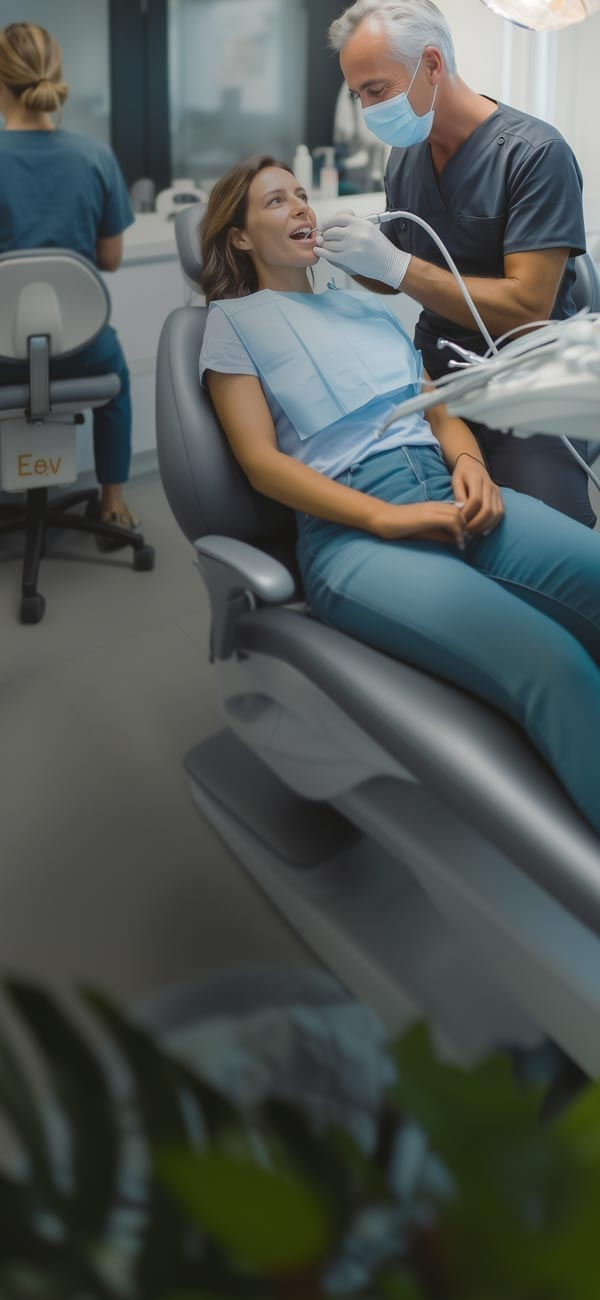
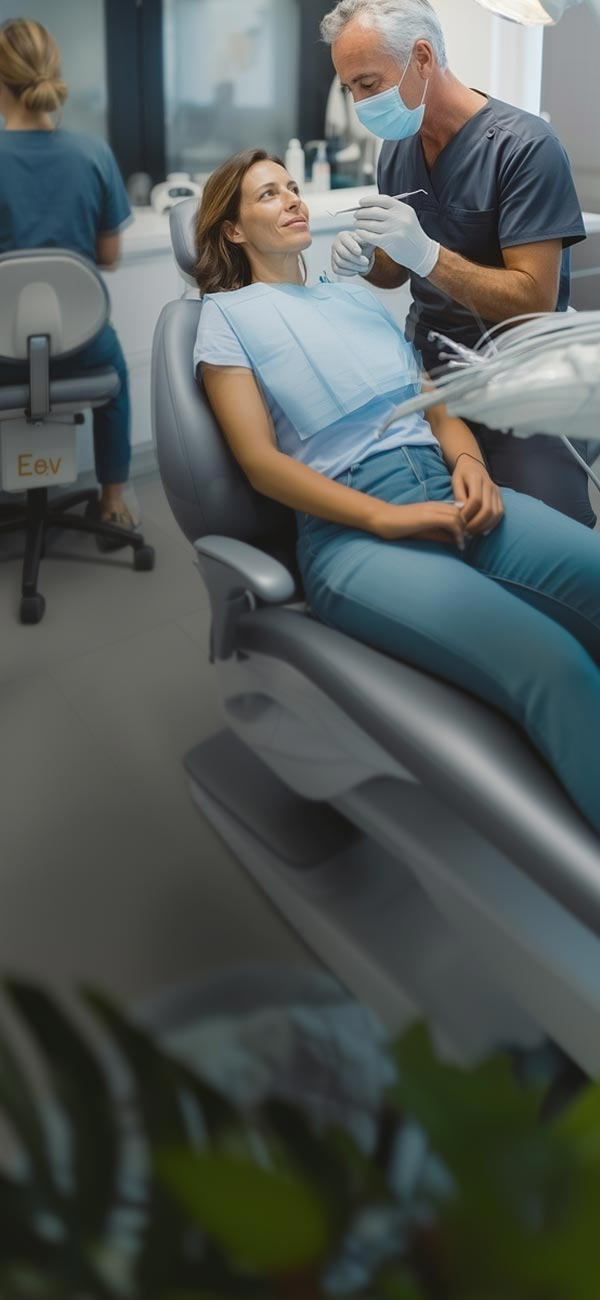
Refresh WebReno "What we actually do" images + cache-bust the picture
Pulled the latest 600X1000 (mobile) and 1920X1400 (desktop) versions
from GitHub. Added ?v=20260430 to both srcset/src so browsers pick up
the new bytes without a hard refresh.

Changed region(s): [[0.18, 0.0, 1.0, 0.3385], [0.15, 0.0, 0.21, 0.0923]]

diff --git a/site/products/web-reno.html b/site/products/web-reno.html
@@ -119,8 +119,8 @@
 <!-- ── WHAT WE ACTUALLY DO ────────────────────────────────────── -->
 <div id="what-we-do" class="img-section-wrap prod-image-section">
   <picture>
-    <source media="(max-width:768px)" srcset="../assets/images/RT-WEB-PRODUCT-WEB-RENO-what-we-actually-do-600X1000.jpg">
-    <img src="../assets/images/RT-WEB-PRODUCT-WEB-RENO-what-we-actually-do-1920X1400.jpg"
+    <source media="(max-width:768px)" srcset="../assets/images/RT-WEB-PRODUCT-WEB-RENO-what-we-actually-do-600X1000.jpg?v=20260430">
+    <img src="../assets/images/RT-WEB-PRODUCT-WEB-RENO-what-we-actually-do-1920X1400.jpg?v=20260430"
          alt="What WebReno actually does for your website"
          class="img-full-bleed">
   </picture>
